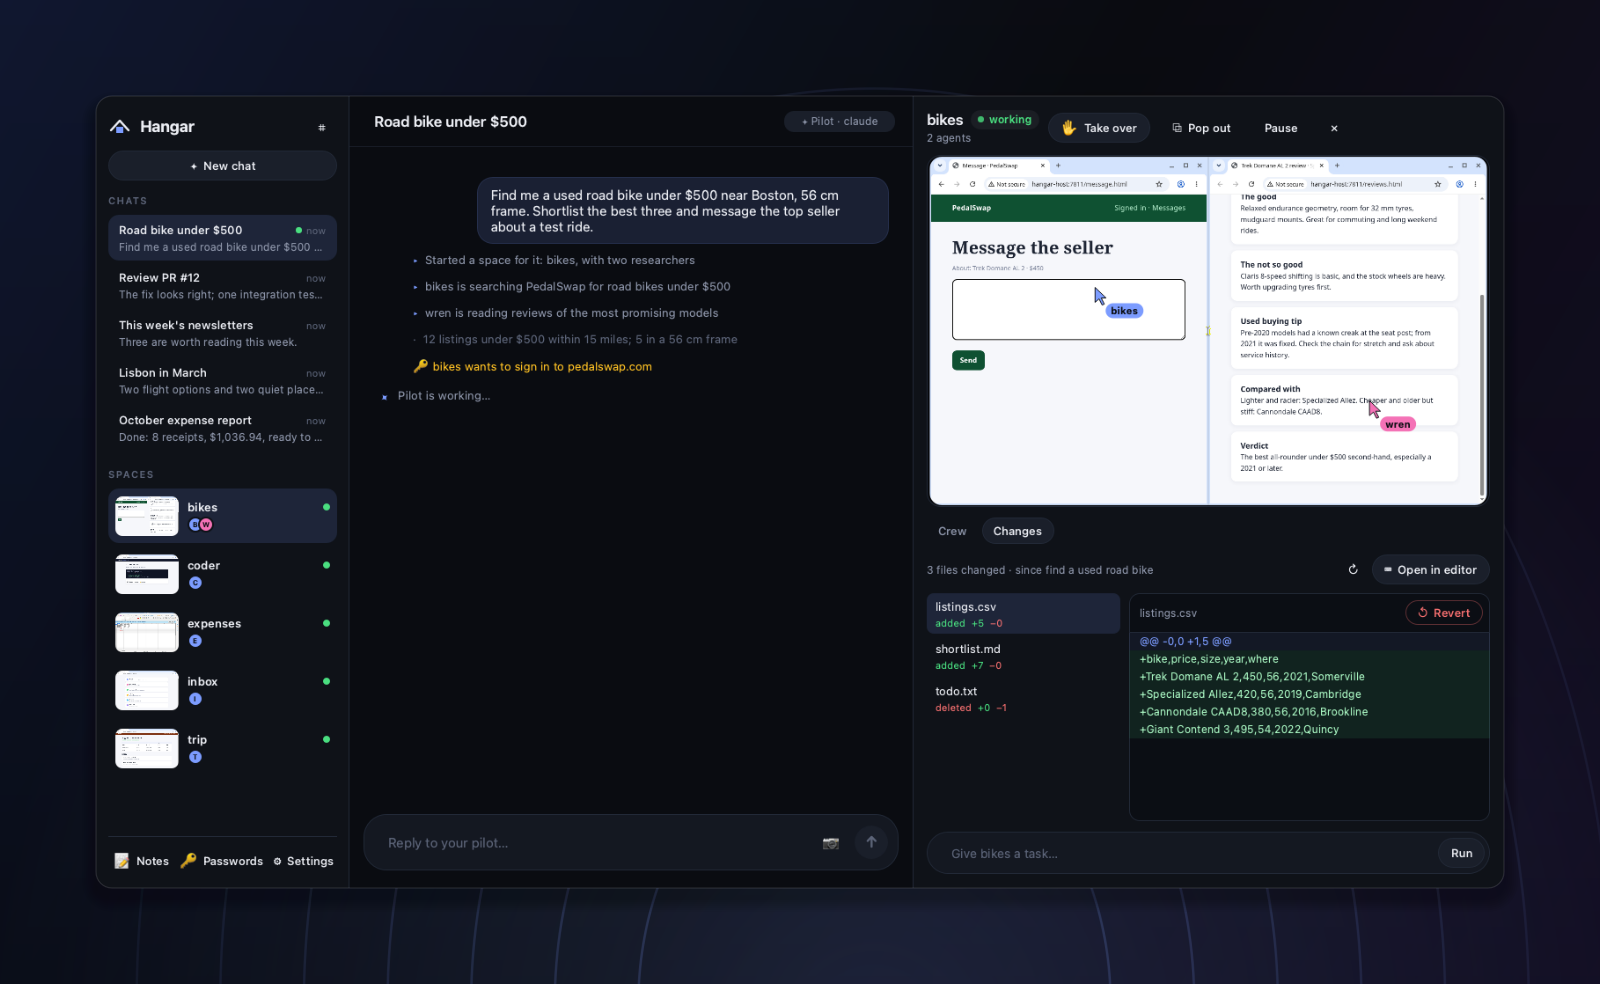
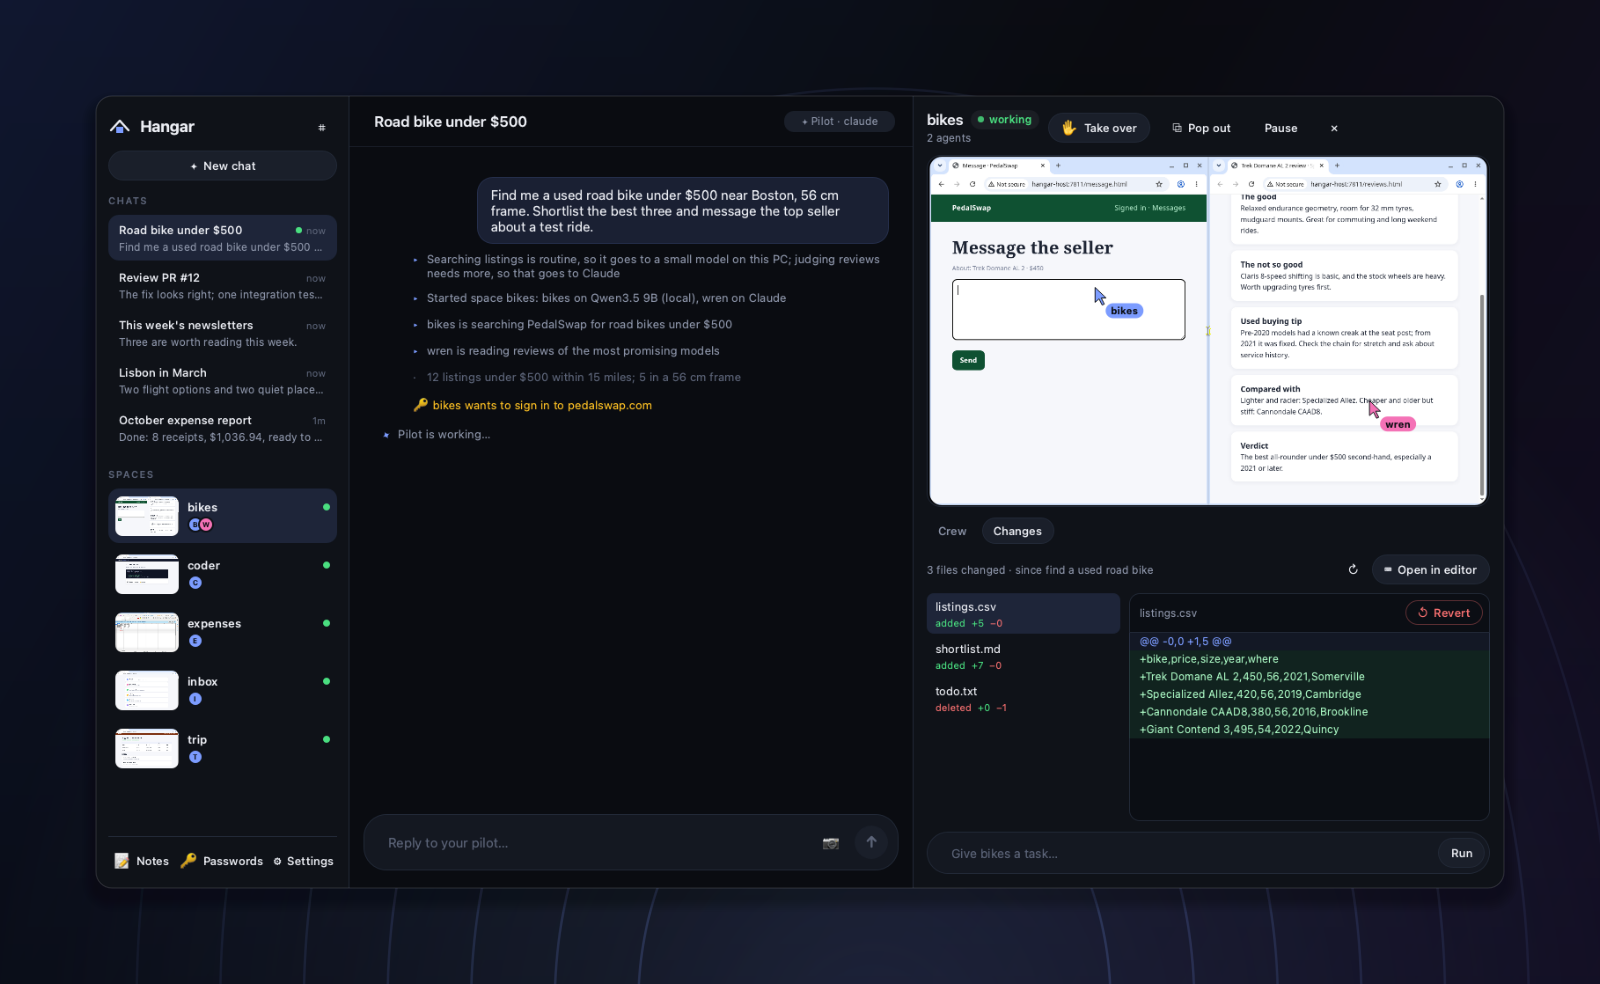
Pilot picks the most efficient capable model; clean tables; natural typing in the demo
The pilot's models() tool lists allowed models cheapest first with what
each can do (sees the screen, reasoning, size, local or cloud) and its cost,
and the pilot is told to give each agent the cheapest model that can do its
task. The chat records which model each agent got.

Markdown tables in Notes and the chat render as padded rows under a dim
bold header instead of Qt's misaligned grid. Chat steps wrap instead of
being cut off.

Demo video: typing follows a natural rhythm on a fixed timeline with the
cursor at the end of the text, scenes play at their real capture speed,
and the pilot's model choice shows in the chat and the task card.

Changed region(s): [[0.25, 0.2439, 0.5312, 0.4573]]

diff --git a/hangar/apps/qml/ChatView.qml b/hangar/apps/qml/ChatView.qml
@@ -213,13 +213,14 @@ Rectangle {
         id: stepMsg
         Item {
             width: parent ? parent.width : 0
-            height: 24
-            Row {
-                x: 44; spacing: 8; anchors.verticalCenter: parent.verticalCenter
-                Text { text: it.kind === "step" ? "▸" : "·"; color: it.kind === "step" ? Theme.accent : Theme.faint
-                       font.pixelSize: 13 }
-                Text { text: it.text; color: it.kind === "step" ? Theme.dim : Theme.faint; font.pixelSize: 13
-                       elide: Text.ElideRight; width: Math.min(implicitWidth, 640) }
+            height: Math.max(24, st.implicitHeight + 6)
+            Text { id: mark; x: 44; y: 3; text: it.kind === "step" ? "▸" : "·"
+                   color: it.kind === "step" ? Theme.accent : Theme.faint; font.pixelSize: 13 }
+            Text {
+                id: st
+                x: 60; y: 3; width: Math.min(parent.width - 60, 680)
+                text: it.text; wrapMode: Text.WordWrap
+                color: it.kind === "step" ? Theme.dim : Theme.faint; font.pixelSize: 13
             }
             MouseArea { anchors.fill: parent; enabled: !!it.space; cursorShape: Qt.PointingHandCursor
                         onClicked: hangar.select(it.space) }

diff --git a/hangar/pilot.py b/hangar/pilot.py
@@ -64,6 +64,36 @@ def allowed(model: str, account: str = "") -> bool:
     return False
 
 
+CLOUD = {   # harness: (what it is, relative cost)
+    "claude": ("Claude (cloud, via Claude Code): strongest at judgement, writing, code and long multi-step work",
+               "uses the account's subscription or API credits"),
+    "codex": ("GPT (cloud, via Codex): strong at code and multi-step work",
+              "uses the account's subscription or API credits"),
+}
+
+
+def describe(model: str) -> dict:
+    """What a model is good for and what it costs to run, so the pilot can pick the
+    most efficient model that can still do a job. cost: 0 = free and on this PC."""
+    from hangar import catalog
+    h, _, sub = model.partition(":")
+    if h == "local":
+        m = next((c for c in catalog.MODELS if c["key"] == sub), None)
+        if m:
+            size = m["params"]
+            can = ["tools"] + (["sees the screen"] if m["vision"] else ["text only: browser text tools, no screenshots"]) \
+                + (["reasoning"] if m.get("reasoning") else [])
+            gb = m["min_gb"]
+            return {"model": model, "where": "local", "cost": 0 if gb < 10 else 1,
+                    "summary": f"{m['name']} ({size}, on this PC: free and private): {', '.join(can)}. {m['blurb']}"}
+        return {"model": model, "where": "local", "cost": 0,
+                "summary": f"{sub} (on this PC: free and private; check it supports tools and vision)"}
+    what, cost = CLOUD.get(h, (model, "uses the account's credits"))
+    if sub:
+        what += f"; model {sub}"
+    return {"model": model, "where": "cloud", "cost": 2, "summary": f"{what}. Costs: {cost}."}
+
+
 def step(text: str, space: str = "") -> None:
     """Record what the pilot did in its current conversation."""
     from hangar import threads
@@ -72,6 +102,16 @@ def step(text: str, space: str = "") -> None:
         threads.add(tid, "step", text, space=space)
         if space:
             threads.link_space(space, tid)
+
+
+def short_model(model: str) -> str:
+    """A model's everyday name for the chat, e.g. "Qwen3.5 9B (local)" or "Claude"."""
+    from hangar import catalog
+    h, _, sub = model.partition(":")
+    if h == "local":
+        m = next((c for c in catalog.MODELS if c["key"] == sub), None)
+        return f"{m['name'] if m else sub} (local)"
+    return {"claude": "Claude", "codex": "GPT"}.get(h, h) + (f" {sub}" if sub else "")
 
 
 def build(eng: Engine, bus: Bus) -> FastMCP:
@@ -100,11 +140,20 @@ def build(eng: Engine, bus: Bus) -> FastMCP:
 
     @mcp.tool()
     async def models() -> str:
-        """Which models you may give agents, your limits, and how many of your agents run now."""
+        """Which models you may give agents (cheapest first, with what each is good at),
+        your limits, and how many of your agents run now. Give each agent the most
+        efficient model that can do its task."""
         o = load()
         n = await run_in_threadpool(running_agents)
-        lines = [f"- {a['model']}" + (f" (account {a['account']})" if a["account"] else "") for a in o["allowed"]]
-        return ("Models you may use:\n" + ("\n".join(lines) or "- none: ask the user to allow some in Settings")
+        allowed_ = sorted(o["allowed"], key=lambda a: describe(a["model"])["cost"])
+        lines = [f"- {a['model']}" + (f" (account {a['account']})" if a["account"] else "")
+                 + f": {describe(a['model'])['summary']}" for a in allowed_]
+        return ("Models you may use, cheapest first:\n"
+                + ("\n".join(lines) or "- none: ask the user to allow some in Settings")
+                + "\nChoose per agent: the cheapest model that can reliably do that agent's task. Routine "
+                  "browsing, reading, searching and filling in forms suit small local models (free, private); "
+                  "use a model that sees the screen when the work is visual; save cloud models for judgement, "
+                  "writing, code and long multi-step work."
                 + f"\nMax agents running at once: {o['max_agents']} (now: {n})"
                 + f"\nNew spaces' internet: {o['internet']}")
 
@@ -166,7 +215,8 @@ def build(eng: Engine, bus: Bus) -> FastMCP:
                     eng.run_task(name, ag["task"], agent=nm, snapshot=False)
             return names
         names = await run_in_threadpool(make)
-        step(f"Started space {name} with {', '.join(names)}", name)
+        who = ", ".join(f"{nm} on {short_model(ag['model'])}" for nm, ag in zip(names, agents))
+        step(f"Started space {name}: {who}", name)
         return f"Created space {name} with {', '.join(names)}."
 
     @mcp.tool()
@@ -185,7 +235,7 @@ def build(eng: Engine, bus: Bus) -> FastMCP:
                 eng.run_task(space, task, agent=e["name"], snapshot=False)
             return e["name"]
         added = await run_in_threadpool(go)
-        step(f"Added {added} to {space}" + (f": {task[:120]}" if task else ""), space)
+        step(f"Added {added} to {space} on {short_model(model)}" + (f": {task[:120]}" if task else ""), space)
         return f"Added {added} to {space}."
 
     @mcp.tool()

diff --git a/video/render.py b/video/render.py
@@ -28,19 +28,19 @@ SCENES = [
     ("title", 4.0, "", "", 0),
     ("why", 5.0, "Most of your to-do list happens on a computer.",
      "Hangar hands it to a crew of AI agents that use one, just like you do.", 0),
-    ("ask", 8.0, "Hand it off the moment you think of it",
-     "One shortcut, from anywhere on your computer. Type it or say it.", 5.5),
-    ("plan", 8.0, "A crew takes it from there",
-     "Your pilot breaks the job down and puts agents on it, each with a computer of its own.", 12),
+    ("ask", 10.5, "Hand it off the moment you think of it",
+     "One shortcut, from anywhere on your computer. Type it or say it.", 12),
+    ("plan", 9.0, "A crew takes it from there",
+     "Your pilot splits the job and matches each part to the most efficient model that can handle it.", 6.56),
     ("space", 12.5, "They work the way you do",
-     "Real websites, real apps, real files. If you can do it on a computer, so can they.", 12),
+     "Real websites, real apps, real files. If you can do it on a computer, so can they.", 6.31),
     ("overview", 5.0, "Many jobs at once",
-     "Shopping, email, code, travel, paperwork: all moving while you get on with your day.", 6),
+     "Shopping, email, code, travel, paperwork: all moving while you get on with your day.", 4.20),
     ("approve", 4.5, "Your accounts stay yours",
-     "Agents ask before they sign in anywhere, and never see a password.", 6),
+     "Agents ask before they sign in anywhere, and never see a password.", 4.29),
     ("takeover", 4.0, "You're always in charge", "Watch any agent work, step in, and hand it back.", 0),
     ("review", 5.0, "Nothing happens behind your back", "See every change, and undo anything you don't like.", 0),
-    ("answer", 8.0, "Come back to finished work", "One answer, with the work already done.", 12),
+    ("answer", 8.0, "Come back to finished work", "One answer, with the work already done.", 6.53),
     ("notes", 5.0, "It all adds up", "What your crew finds is kept in your notes, for you and for them.", 0),
     ("private", 5.0, "It lives on your computer.",
      "Agents see only the folders you share, and can run on AI models on your own machine.", 0),
@@ -49,8 +49,9 @@ SCENES = [
 CARDS = {"why", "private"}
 SAME_WINDOW = {"plan", "space", "overview", "approve", "takeover", "review", "answer"}
 # The pilot hands each agent its own job as the space scene opens (seconds into the scene).
-ASSIGN = {"space": (0.8, 4.2, [("#7c9cff", "bikes", "Search PedalSwap for 56 cm road bikes under $500 near Boston"),
-                                ("#f472b6", "wren", "Read reviews of the most promising models")])}
+ASSIGN = {"space": (0.8, 4.4, [("#7c9cff", "bikes", "Search PedalSwap for 56 cm road bikes under $500",
+                                 "Qwen3.5 9B · on this PC"),
+                                ("#f472b6", "wren", "Read reviews of the most promising models", "Claude")])}
 SETUP_STEPS = ["setup-0-welcome", "setup-2-accounts", "setup-3-models", "setup-4-pilot", "setup-5-notify",
                "setup-6-done"]
 
@@ -234,7 +235,13 @@ def draw_assign(p: QPainter, rows, a: float) -> None:
     head.setPixelSize(17)
     head.setWeight(QFont.DemiBold)
     p.setFont(mono)
-    w = max(p.fontMetrics().horizontalAdvance(f"{n}  {t}") for _c, n, t in rows) + 110
+    small = QFont("Inter")
+    small.setPixelSize(17)
+    tag_w = 0
+    p.setFont(small)
+    tag_w = max(p.fontMetrics().horizontalAdvance(m) for *_x, m in rows) + 40
+    p.setFont(mono)
+    w = max(p.fontMetrics().horizontalAdvance(f"{n}  {t}") for _c, n, t, _m in rows) + 110 + tag_w
     h = 64 + 46 * len(rows)
     x, y = (W - w) / 2, 250 - 16 * (1 - a)
     p.setPen(Qt.NoPen)
@@ -247,7 +254,7 @@ def draw_assign(p: QPainter, rows, a: float) -> None:
     p.setFont(head)
     p.setPen(QColor("#a7bbff"))
     p.drawText(QRectF(x + 28, y + 16, w - 56, 26), Qt.AlignLeft | Qt.AlignVCenter, "✦  Pilot → crew")
-    for i, (color, name, task) in enumerate(rows):
+    for i, (color, name, task, model) in enumerate(rows):
         ry = y + 54 + 46 * i
         p.setPen(Qt.NoPen)
         p.setBrush(QColor(color))
@@ -257,7 +264,14 @@ def draw_assign(p: QPainter, rows, a: float) -> None:
         nw = p.fontMetrics().horizontalAdvance(name + "  ")
         p.drawText(QRectF(x + 56, ry, nw + 10, 38), Qt.AlignLeft | Qt.AlignVCenter, name)
         p.setPen(QColor("#e8eaf0"))
-        p.drawText(QRectF(x + 56 + nw, ry, w - nw - 80, 38), Qt.AlignLeft | Qt.AlignVCenter, task)
+        p.drawText(QRectF(x + 56 + nw, ry, w - nw - 80 - tag_w, 38), Qt.AlignLeft | Qt.AlignVCenter, task)
+        p.setFont(small)
+        tw = p.fontMetrics().horizontalAdvance(model) + 22
+        p.setPen(Qt.NoPen)
+        p.setBrush(QColor(255, 255, 255, 16))
+        p.drawRoundedRect(QRectF(x + w - 28 - tw, ry + 6, tw, 26), 13, 13)
+        p.setPen(QColor("#a9b4cc"))
+        p.drawText(QRectF(x + w - 28 - tw, ry + 6, tw, 26), Qt.AlignCenter, model)
     p.restore()
 
 

diff --git a/video/capture.py b/video/capture.py
@@ -48,7 +48,9 @@ DAEMON = "http://127.0.0.1:7810"
 ASK = ("Find me a used road bike under $500 near Boston, 56 cm frame. "
        "Shortlist the best three and message the top seller about a test ride.")
 PLAN = [
-    ("step", "Started a space for it: bikes, with two researchers", {"space": "bikes"}),
+    ("step", "Searching listings is routine, so it goes to a small model on this PC; judging reviews "
+             "needs more, so that goes to Claude", {}),
+    ("step", "Started space bikes: bikes on Qwen3.5 9B (local), wren on Claude", {"space": "bikes"}),
     ("step", "bikes is searching PedalSwap for road bikes under $500", {"space": "bikes"}),
     ("step", "wren is reading reviews of the most promising models", {"space": "bikes"}),
     ("progress", "12 listings under $500 within 15 miles; 5 in a 56 cm frame", {}),
@@ -172,13 +174,13 @@ def setup_demo() -> None:
     for n in SPACES:
         eng.wait_ready(n, timeout=180)
     spaces.add_agent(eng, "bikes", role="reviews")         # -> wren
-    for n, role, model in (("bikes", "researcher", "claude"), ("inbox", "assistant", "codex"),
+    for n, role, model in (("bikes", "listings", "local:qwen/qwen3.5-9b"), ("inbox", "assistant", "codex"),
                            ("coder", "reviewer", "claude"), ("trip", "planner", "claude"),
                            ("expenses", "bookkeeper", "local:qwen/qwen3.5-9b")):
         r = spaces.roster(eng, n)
         r[0]["role"], r[0]["model"] = role, model
         if n == "bikes":
-            r[1]["model"] = "local:qwen/qwen3.5-9b"
+            r[1]["model"] = "claude"
         spaces.save(n, r)
     set_task("bikes", "bikes", "Find used road bikes under $500 near Boston, 56 cm")
     set_task("bikes", "wren", "Read reviews of the most promising models")
@@ -273,7 +275,7 @@ def os_desktop(w: int, h: int):
 
 def main() -> None:
     from PySide6.QtCore import QPoint, QUrl
-    from PySide6.QtGui import QImage, QPainter
+    from PySide6.QtGui import QPainter
     from PySide6.QtQml import QQmlApplicationEngine, qmlRegisterType
     from PySide6.QtQuickControls2 import QQuickStyle
 
@@ -289,29 +291,41 @@ def main() -> None:
         eng.exec("bikes", ["bash", "-c", "cd ~/workspace && printf 'Look at: PedalSwap, Craigslist\\n' > todo.txt"])
         snapshots.take(eng, "bikes", "before: find a used road bike")
 
-        # 1. Ask from anywhere: the Hangar OS desktop, then the Ask panel (Meta+Space).
+        # 1. Ask from anywhere: the Hangar OS desktop, then the Ask panel (Meta+Space),
+        # typed at a natural pace. Frames follow a fixed 12 fps timeline, not the clock.
+        import random
+        from PySide6.QtGui import QTextCursor
         from hangar.apps.ask import AskPanel
         p = AskPanel()
         p.open(None, {}, set())
+        p.input.setFocus()
         pump(0.3)
         desk = os_desktop(1600, 1000)
-
-        def over_screen() -> QImage:
+        rnd = random.Random(7)
+        times, t = [], 1.9
+        for ch in ASK:                      # when each character lands
+            t += 0.038 + rnd.random() * 0.03 + (0.09 if ch == " " and rnd.random() < 0.25 else 0) \
+                + (0.22 if ch in ",." else 0)
+            times.append(t)
+        d = _dir("ask")
+        for n in range(int((times[-1] + 1.0) * 12)):
+            now = n / 12
             img = desk.copy()
-            if typed["shown"]:
+            if now > 1.3:
+                typed = sum(1 for x in times if x <= now)
+                if p.input.toPlainText() != ASK[:typed]:
+                    p.input.setPlainText(ASK[:typed])
+                    c = p.input.textCursor()
+                    c.movePosition(QTextCursor.End)
+                    p.input.setTextCursor(c)
+                    pump(0.01)
                 panel = p.grab().toImage()
                 q = QPainter(img)
                 q.drawImage(QPoint((img.width() - panel.width()) // 2, 230), panel)
                 q.end()
-            return img
-        typed = {"i": 0, "shown": False}
-
-        def type_more(t: float) -> None:
-            typed["shown"] = t > 1.3
-            if t > 1.9:
-                typed["i"] = min(len(ASK), typed["i"] + 4)
-                p.input.setPlainText(ASK[:typed["i"]])
-        record("ask", over_screen, 8.5, every=1 / 12, script=type_more)
+            img.save(str(d / f"{n:04d}.png"))
+        print(f"  ask: {n + 1} frames")
+        p.hide()
 
         # Your desktop's Hangar: the conversation with the pilot.
         QQuickStyle.setStyle("Basic")
@@ -355,7 +369,7 @@ def main() -> None:
                 shown["n"] += 1
                 bridge.refresh()
                 bridge.openThread(chat["id"])
-        record("plan", win.grabWindow, 8, script=plan)
+        record("plan", win.grabWindow, 9, script=plan)
 
         # 3. Watch them work: each agent gets its own task and starts from a bare desktop.
         bridge.select("bikes")

diff --git a/docs/make_images.py b/docs/make_images.py
@@ -21,14 +21,14 @@ OUT = ROOT / "docs/images"
 V = ROOT / "out/video"
 SHOTS = {   # name: (source, framed on the wallpaper?)
     "hero": (V / "space/0076.png", True),
-    "ask": (V / "ask/0046.png", True),
-    "plan": (V / "plan/0052.png", True),
+    "ask": (V / "ask/0127.png", True),
+    "plan": (V / "plan/0058.png", True),
     "space": (V / "space/0076.png", True),
     "overview": (V / "overview/0018.png", True),
     "approve": (V / "approve/0010.png", True),
     "takeover": (V / "takeover/0000.png", True),
     "review": (V / "review/0000.png", True),
-    "answer": (V / "answer/0046.png", True),
+    "answer": (V / "answer/0048.png", True),
     "notes": (V / "notes/0000.png", True),
     "setup-welcome": (ROOT / "out/setup-0-welcome.png", False),
     "setup-accounts": (ROOT / "out/setup-2-accounts.png", False),

diff --git a/hangar/apps/common.py b/hangar/apps/common.py
@@ -429,6 +429,14 @@ def markdown_html(text: str, link: str = "#7c9cff") -> str:
     doc.setMarkdown(text)
     html = re.sub(r"<body[^>]*>", "<body>", doc.toHtml())          # the QML item sets the font
     html = re.sub(r'(<a [^>]*><span style=")[^"]*', rf"\1color:{link}; text-decoration:none;", html)
+    # Tables: Qt's ruled grid draws its lines out of step with the text, so use
+    # padded rows under a dim bold header instead of borders.
+    html = re.sub(r"<table[^>]*>", '<table border="0" cellspacing="0" cellpadding="7">', html)
+
+    def header(m: "re.Match") -> str:
+        return re.sub(r"(<p[^>]*>)(.*?)</p>", r'\1<span style="font-weight:600; color:#8b93a7;">\2</span></p>',
+                      m.group(0), flags=re.S)
+    html = re.sub(r"<tr>.*?</tr>", header, html, count=1, flags=re.S)
     return html
 
 

diff --git a/README.md b/README.md
@@ -36,7 +36,7 @@ taskbar, the shortcuts and the notifications.
 <td width="50%"><img src="docs/images/ask.png" alt="Asking Hangar from the desktop"><br>
 <b>Hand it off the moment you think of it.</b> One shortcut from anywhere on the system, with a screenshot or the window you're in attached if you like. Type or speak.</td>
 <td width="50%"><img src="docs/images/plan.png" alt="The pilot starting a crew"><br>
-<b>A crew takes it from there.</b> The pilot breaks the job down, starts agents with the right roles, and keeps you posted in one conversation.</td>
+<b>A crew takes it from there.</b> The pilot breaks the job down and gives each part the most efficient model that can do it: a small model on the machine for routine browsing, a bigger one only where judgement is needed.</td>
 </tr>
 <tr>
 <td><img src="docs/images/space.png" alt="Two agents working on one desktop"><br>
@@ -87,6 +87,8 @@ their lane:
 - **Sign-ins go through you.** Passwords live in an encrypted vault; agents
   ask, you approve, the OS types it in. AI subscriptions sign in through each
   company's official login, and Hangar never sees those passwords.
+- **No more model than the job needs.** The pilot matches each agent to the cheapest model
+  that can do its part, so routine work stays free and private on the machine.
 - **Limits that are enforced, not requested.** Which models the pilot may
   use, how many agents can run, which websites a space can reach: the system
   enforces these, whatever an agent says.

diff --git a/docs/wiki/Talking-to-your-pilot.md b/docs/wiki/Talking-to-your-pilot.md
@@ -51,6 +51,15 @@ When the pilot finishes, you get a notification; **click it to open that
 conversation**. If you set up ntfy, Slack or Telegram, the same reaches your
 phone. See [From another device](From-another-device).
 
+## Choosing models
+
+For each agent, the pilot picks **the most efficient model that can do that
+part of the job**, from the models you've allowed. Routine browsing,
+reading, searching and filling in forms go to small models running on the PC
+(free and private); work that needs to see the screen gets a model with
+vision; judgement, writing, code and long multi-step work get a bigger cloud
+model like Claude. The conversation shows which model each agent got and why.
+
 ## Good to know
 
 - The pilot can only use the models you've allowed and run as many agents as

diff --git a/docs/reference.md b/docs/reference.md
@@ -211,6 +211,13 @@ Orchestration** (or `hangar pilot set`):
 uv run hangar pilot set claude --allow local:qwen/qwen3.5-9b --allow claude@personal --max-agents 4
 ```
 
+**Picking models.** The control tool `models()` lists the allowed models
+cheapest first, each with what it can do (sees the screen, reasoning, size,
+local or cloud) and what it costs to run, and the pilot is told to give each
+agent the cheapest model that can reliably do that agent's task. The chat
+records the choice ("Started space bikes: bikes on Qwen3.5 9B (local), wren
+on Claude").
+
 What it can't do, enforced by the daemon rather than just asked:
 - use a model you haven't allowed,
 - run more agents than your limit,

diff --git a/docs/wiki/AI-accounts-and-models.md b/docs/wiki/AI-accounts-and-models.md
@@ -31,3 +31,9 @@ models (20B+) do much better if your PC can hold them.
 
 In [Settings](Settings) → Orchestration, choose the pilot's model and the
 models it may give agents. The pilot can't use anything you haven't allowed.
+
+Within what you allow, the pilot gives each agent the most efficient model
+that can do its task: small local models for routine work, a model that sees
+the screen for visual work, and cloud models only for judgement, writing,
+code or long multi-step jobs. Allowing a couple of local models alongside a
+cloud account keeps most work free and on the PC.
